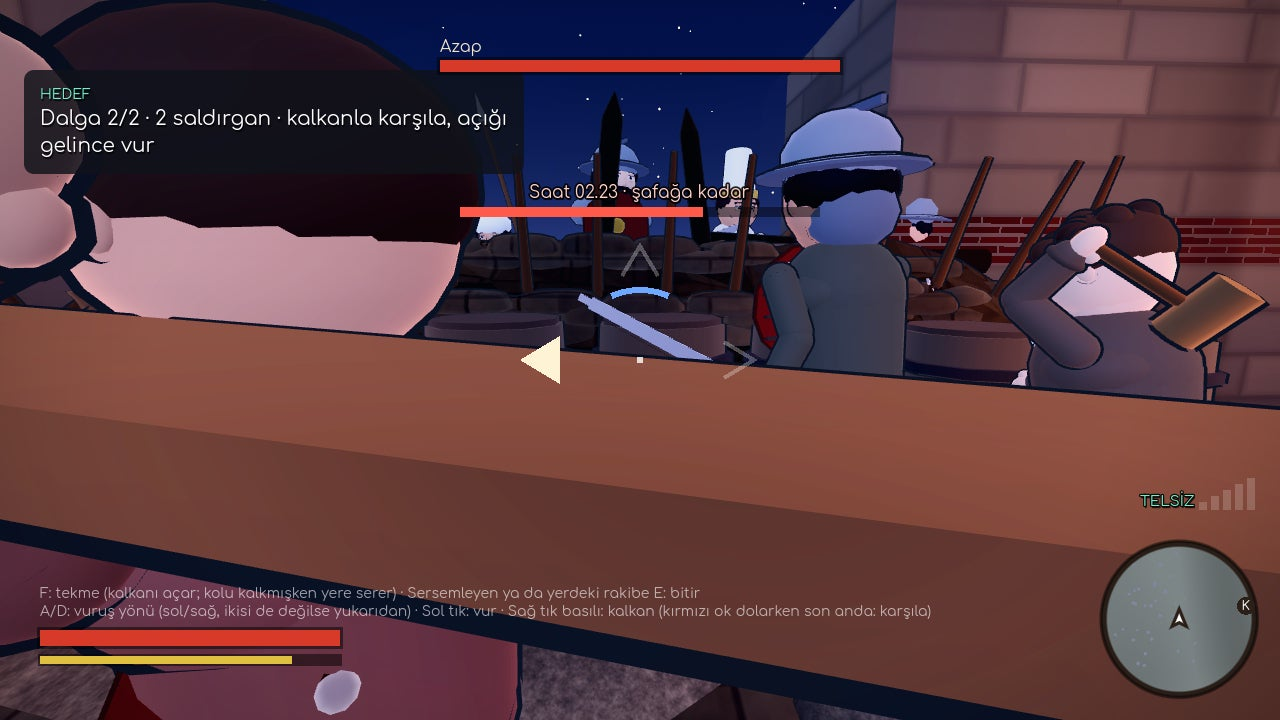
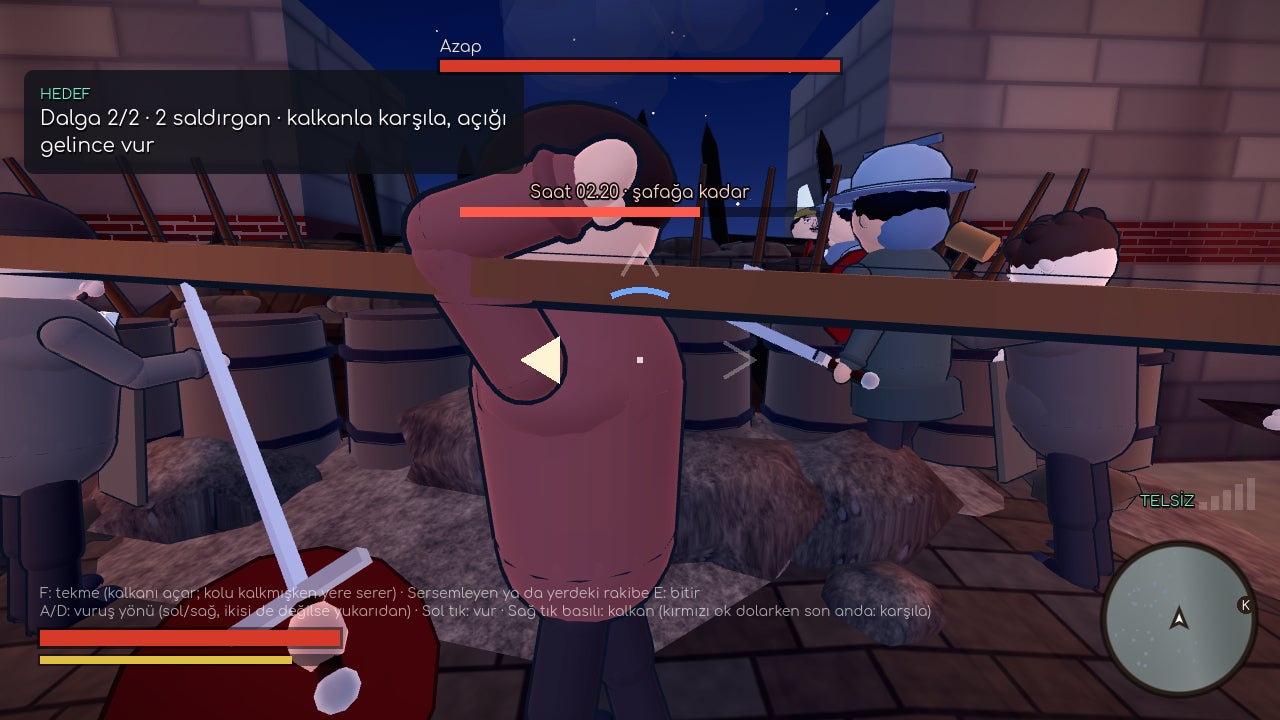
TAŞIMA-4 son: Bölüm 20 2. dalga orta karesi, rapor ve durum tamam
Claude-Session: https://claude.ai/code/session_01RAjzxJyjhkAumfQRZ1fstW

diff --git a/docs/_kanit_ist2_tasima4/rapor.md b/docs/_kanit_ist2_tasima4/rapor.md
@@ -19,7 +19,7 @@
 | 3b | Çuvallar yassı disk | **TAMAM** | dolgun, ağzı iple bağlı, püsküllü kum çuvalı (kendi ağı, yumuşak normal), tuğla dizisi gibi alttakilerin üstüne oturur; havada yok |
 | 3c | Bölüm 21 an_03 SONRA karesi | **TAMAM** | kap yeri açık, depo solda; iyi |
 | 2 | Bölüm 0 açılışı destanı | **TAMAM** (açılış iyi; eskinin sur yolu kalabalığı yeni setin yüksek iç korkuluğu yüzünden görünmüyor) | ek hücum merdivenleri (uçları kadrajda), yaralı/koşan şeritleri, sur yolu meşaleleri, duman, kuleye dayalı merdiven; donma karesinde yaralı, merdiven, tek tek kalas; bütün anlar eski setin çizim ve ilkel sayısının altında; yeni ×2 + eski ×1 PASS, `=yuru` takılma 0 |
-| 1-kare | 2. dalga kareleri | **KISMEN** | başlangıç karesi var (kötü kadraj), orta kare alınamadı |
+| 1-kare | 2. dalga kareleri | **TAMAM** (başlangıç kötü kadraj) | orta kare iyi; başlangıçta kameranın dibinde kalas taşıyan işçi |
 | — | Sözleşme | **TAMAM** | `SURSOZLESME PASS kalem=13 kesim=8` · `SUROYUN nokta=519 havada=0 gomuk=0 katida=0` · `WALKTHRU OZET yol=7 tamam=7 takilma=0 dusme=0` (`testler/soz/`) |
 | 4 | Bölüm 22 / 22o taşıması | **YAPILMADI** | süre §1–3'e harcandı; bkz. "Sonraki taşıyana" |
 
@@ -154,7 +154,10 @@ yalnız `SurSetSahne`'li sahnede). Bu sınıfları kullanan bölümler ×1: 21, 
 |---|---|---|
 | `an_12_duello` (1. dalga) | gedik önünde düello; arkada fıçılar, tuğla dizisi çuvallar, kazık çiti | kabul |
 | `an_13_dalga2_baslangic` | kameranın dibinde kalas taşıyan bir işçi ve bir dost asker kadrajı kesiyor; arkada fıçılar, çuvallar, kazıklar, bir azap; o anda gelen azaplar dolgu/yamaçta, aşama 4 barikatının ardında kaldığı için peribolostan görünmüyor | **kötü kadraj** (oynanışta oyuncu dönüp bakabilir; =kare'nin sabit bakışı kalabalığın içinde) |
-| `an_14_dalga2_orta` | çekilemedi: yazılımsal GL'de `=kare` 1.400 sn sınırına takıldı (makine bir kez yeniden başladı, ilk çekim yarıda kaldı); 2.400 sn ile yeniden çekim rapor yazılırken sürüyordu | **YAPILMADI** (bkz. durum.md) |
+| `an_14_dalga2_orta` | barikatın önünde göğüs göğüse dövüş: dostlar azaplarla çarpışıyor, ak börklü bir azap fıçıların ardından barikatı aşıyor, havada toz bulutları, sağda dış sur; kutu yok, havada duran kişi yok, herkes zemine oturuyor | **iyi** |
+
+(İkinci çekim `KT=2400`; ilk çekim makine yeniden başlayınca, ikincisi 1.400 sn sınırında yarıda kaldı. İki çekimde de başlangıç
+karesi aynı kalabalığa düştü.)
 
 ### Bütçe (çuvallar; Bölüm 20 `=butce --butce_onarim=7`, aşama 3, aynı kameralar, 10 kare ortalaması)
 ÖNCE = tasima3 SONRA (`docs/_kanit_ist2_tasima3/testler/butce/sonra_onarim7.ham`; çuval dışında set kodu aynı), SONRA
@@ -269,7 +272,7 @@ yakalansın); `--chapter=0 --autotest=yuru` (tasima3'ün isteği hâlâ geçerli
 5. **Düello süresinin oynaklığı:** `=wide` 1. dalga ×2–4'lük turlarda 7,5–13,9 arasında oynadı; ölçüm en az ×6.
 
 ## Hâlâ kötü olanlar (dürüst)
-- Bölüm 20 2. dalga başlangıç karesi kötü kadraj; orta kare alınamadı. Aşama 4'te azapların ovadan gelişi peribolostan
+- Bölüm 20 2. dalga başlangıç karesi kötü kadraj (kameranın dibinde kalas taşıyan işçi; iki çekimde de). Aşama 4'te azapların ovadan gelişi peribolostan
   görünmüyor (barikat ve sur yolu tahtası kapatıyor); yaklaşma sur yolundan ya da gedik ağzından bakınca görünür.
 - 20o `=wide` 2. dalga 12,9 sn: tabandan (11,1) uzun ama eskiden (22,3) kısa (kaldıraç a/b tükendi; c/can'a dokunulmadı).
 - Bölüm 20 1. dalga 11,4 sn: eskiden (9,0) biraz uzun (yaklaşma yolu); `lose` çeşidinde 18,4.

diff --git a/docs/_kanit_ist2_tasima4/durum.md b/docs/_kanit_ist2_tasima4/durum.md
@@ -25,7 +25,7 @@ Dal `wip/ist2-tasima4`, taban `wip/ist2-tasima3` 6f92f921.
 - Bölüm 0: 3 kare turu (merdiven ucu, kuleye dayalı merdiven, yaralılar); donma karesi bütçesi için uzak figüran gizleme.
 
 ## Süren
-- Bölüm 20 `=kare` yeniden çekim (2.400 sn sınır) yalnız `an_14_dalga2_orta` için; gelirse `kare/c20_sonra/`'ya eklenir.
+- Yok (Bölüm 20 `an_14_dalga2_orta` alındı).
 
 ## Sıradaki
 - Bölüm 22 / 22o taşıması (yapılmadı; rapor §4).
